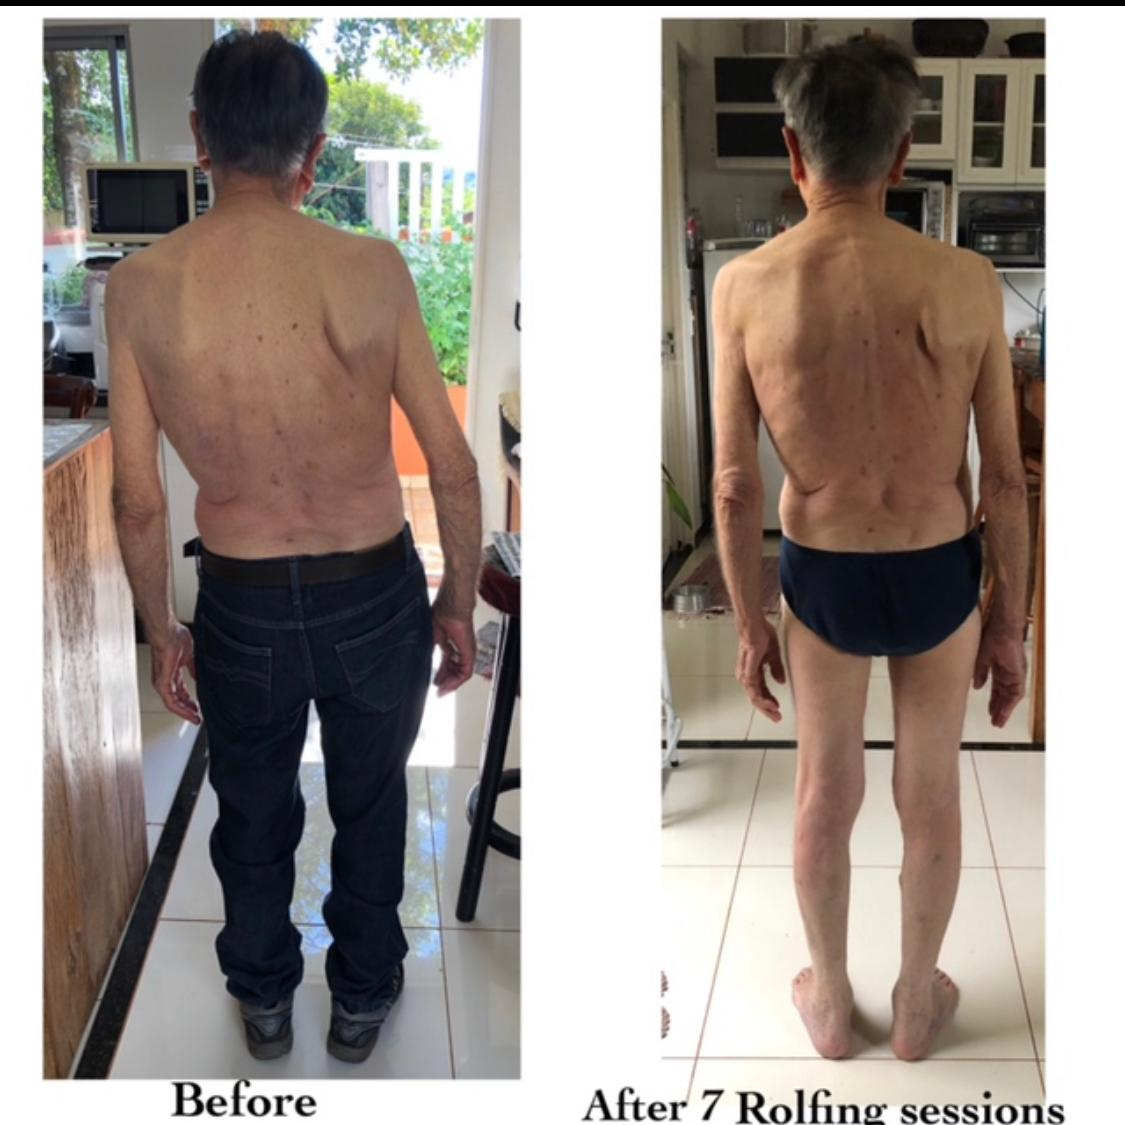
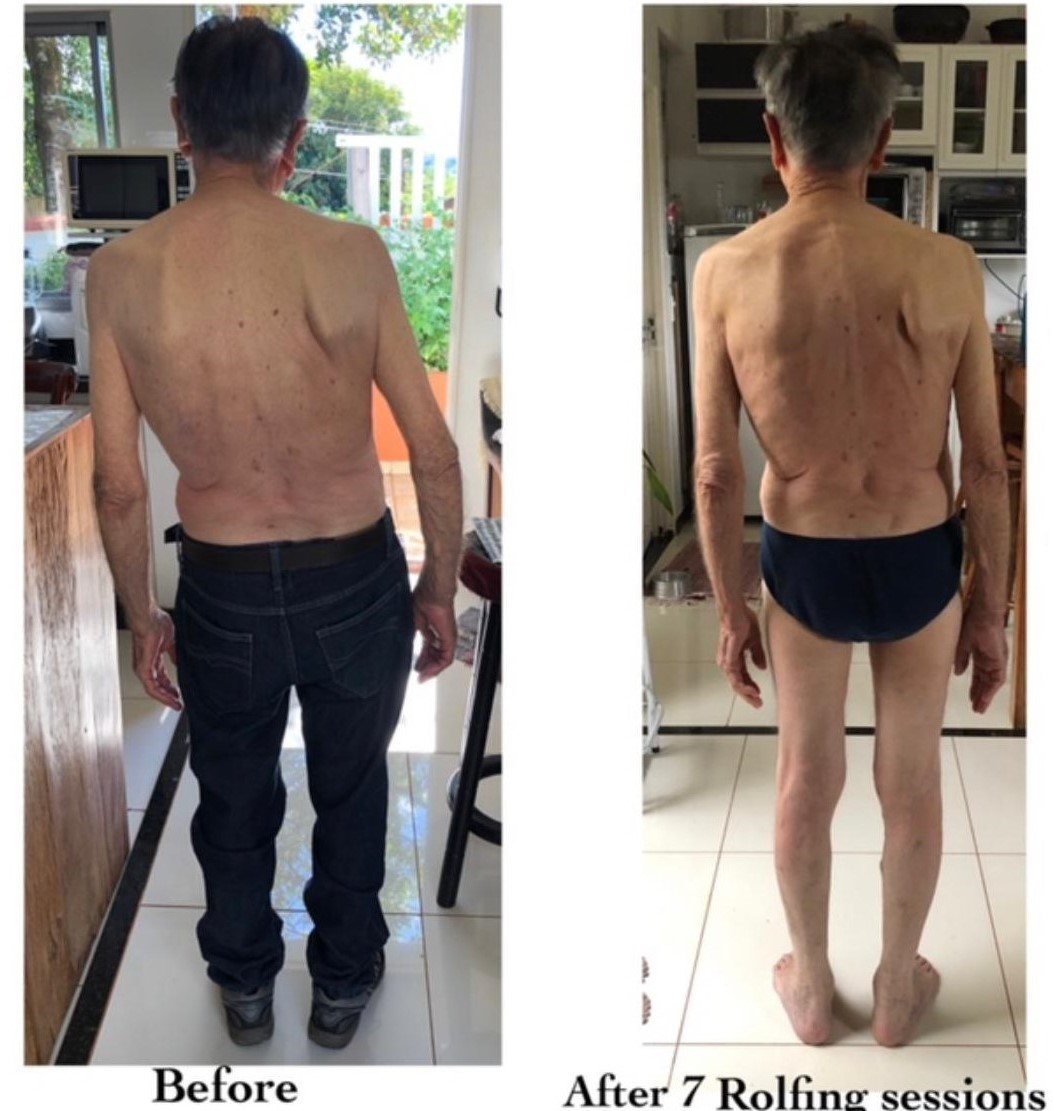
Move "Where Sessions Happen" below testimonials, update cropped photo
Reordered the section (and the matching nav link) so Location now
follows Reviews instead of sitting between The Session and Testimonials.

assets/img/gallery-1.jpg was re-cropped by the client (1125x1125 ->
1054x1111); updated the width/height attributes on its mobile <img> to
match so the layout doesn't reserve the old aspect ratio.

diff --git a/index.html b/index.html
@@ -41,8 +41,8 @@
         <ul class="site-nav__list">
           <li><a class="site-nav__link" href="#about">About</a></li>
           <li><a class="site-nav__link" href="#session">The Session</a></li>
-          <li><a class="site-nav__link" href="#location">Location</a></li>
           <li><a class="site-nav__link" href="#testimonials">Reviews</a></li>
+          <li><a class="site-nav__link" href="#location">Location</a></li>
           <li><a class="site-nav__link" href="#pricing">Pricing</a></li>
           <li><a class="site-nav__link" href="#benefits">Benefits</a></li>
           <li><a class="site-nav__link" href="#faq">FAQ</a></li>
@@ -218,36 +218,9 @@
         <figure class="expect__photo-mobile">
           <img src="assets/img/gallery-1.jpg"
                alt="A client&rsquo;s posture seen from behind, before Rolfing and after seven sessions."
-               width="1125" height="1125" loading="lazy" />
+               width="1054" height="1111" loading="lazy" />
           <figcaption>Client photo, shared with permission. Results vary from person to person.</figcaption>
         </figure>
-      </div>
-    </section>
-
-    <!-- ===================================================================
-         5. WHERE SESSIONS HAPPEN
-         =================================================================== -->
-    <section class="section section--canvas" id="location" aria-labelledby="where-title">
-      <div class="container">
-        <p class="eyebrow reveal">Where sessions happen</p>
-        <h2 class="section-title reveal" id="where-title">Built Around Your Life, Not the Other Way Around</h2>
-
-        <div class="where__grid">
-          <div class="where__col reveal">
-            <span class="where__icon" aria-hidden="true">
-              <svg viewBox="0 0 24 24" fill="none" stroke="currentColor" stroke-width="1.5" stroke-linecap="round" stroke-linejoin="round"><path d="M19 9V6a2 2 0 0 0-2-2H7a2 2 0 0 0-2 2v3"/><path d="M3 11v5a2 2 0 0 0 2 2h14a2 2 0 0 0 2-2v-5a2 2 0 0 0-4 0v2H7v-2a2 2 0 0 0-4 0Z"/><path d="M5 18v2"/><path d="M19 18v2"/></svg>
-            </span>
-            <h3>In Joyce&rsquo;s private space</h3>
-            <p>A warm, quiet room designed to feel like a retreat rather than a clinic, with the soft amber glow of Himalayan salt lamps setting the tone.</p>
-          </div>
-          <div class="where__col reveal">
-            <span class="where__icon" aria-hidden="true">
-              <svg viewBox="0 0 24 24" fill="none" stroke="currentColor" stroke-width="1.5" stroke-linecap="round" stroke-linejoin="round"><path d="M20 10c0 4.993-5.539 10.193-7.399 11.799a1 1 0 0 1-1.202 0C9.539 20.193 4 14.993 4 10a8 8 0 0 1 16 0"/><circle cx="12" cy="10" r="3"/></svg>
-            </span>
-            <h3>In your own home</h3>
-            <p>Priced slightly differently to account for travel (full pricing below). Ideal if getting out isn&rsquo;t easy, or if you&rsquo;d simply rather not drive anywhere right after a session.</p>
-          </div>
-        </div>
       </div>
     </section>
 
@@ -334,6 +307,33 @@
             </figure>
           </div>
           <p class="gallery__disclaimer">Results vary from person to person.</p>
+        </div>
+      </div>
+    </section>
+
+    <!-- ===================================================================
+         5. WHERE SESSIONS HAPPEN
+         =================================================================== -->
+    <section class="section section--canvas" id="location" aria-labelledby="where-title">
+      <div class="container">
+        <p class="eyebrow reveal">Where sessions happen</p>
+        <h2 class="section-title reveal" id="where-title">Built Around Your Life, Not the Other Way Around</h2>
+
+        <div class="where__grid">
+          <div class="where__col reveal">
+            <span class="where__icon" aria-hidden="true">
+              <svg viewBox="0 0 24 24" fill="none" stroke="currentColor" stroke-width="1.5" stroke-linecap="round" stroke-linejoin="round"><path d="M19 9V6a2 2 0 0 0-2-2H7a2 2 0 0 0-2 2v3"/><path d="M3 11v5a2 2 0 0 0 2 2h14a2 2 0 0 0 2-2v-5a2 2 0 0 0-4 0v2H7v-2a2 2 0 0 0-4 0Z"/><path d="M5 18v2"/><path d="M19 18v2"/></svg>
+            </span>
+            <h3>In Joyce&rsquo;s private space</h3>
+            <p>A warm, quiet room designed to feel like a retreat rather than a clinic, with the soft amber glow of Himalayan salt lamps setting the tone.</p>
+          </div>
+          <div class="where__col reveal">
+            <span class="where__icon" aria-hidden="true">
+              <svg viewBox="0 0 24 24" fill="none" stroke="currentColor" stroke-width="1.5" stroke-linecap="round" stroke-linejoin="round"><path d="M20 10c0 4.993-5.539 10.193-7.399 11.799a1 1 0 0 1-1.202 0C9.539 20.193 4 14.993 4 10a8 8 0 0 1 16 0"/><circle cx="12" cy="10" r="3"/></svg>
+            </span>
+            <h3>In your own home</h3>
+            <p>Priced slightly differently to account for travel (full pricing below). Ideal if getting out isn&rsquo;t easy, or if you&rsquo;d simply rather not drive anywhere right after a session.</p>
+          </div>
         </div>
       </div>
     </section>
